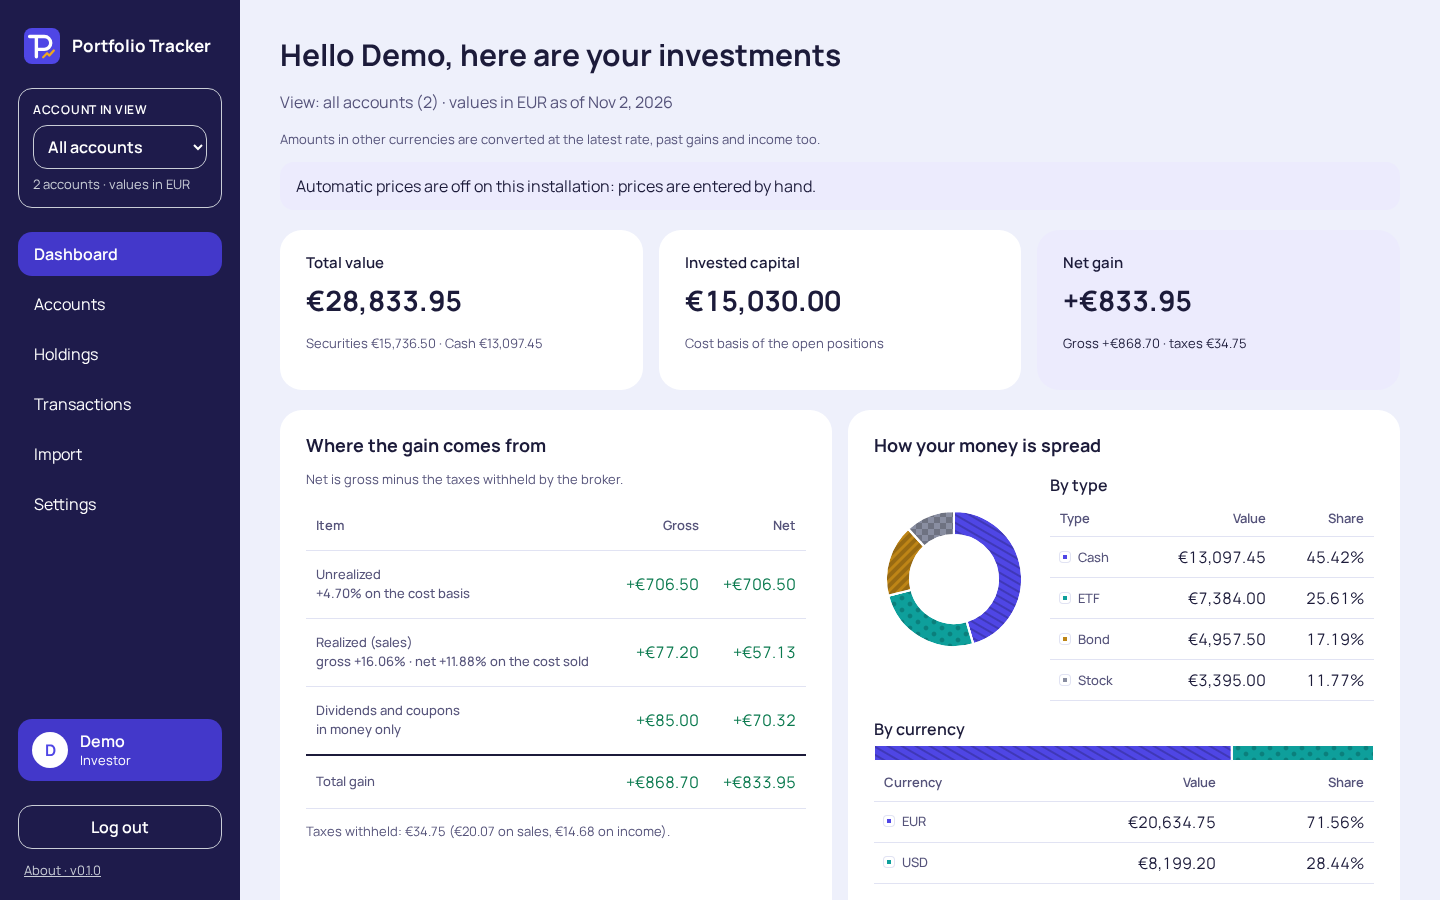
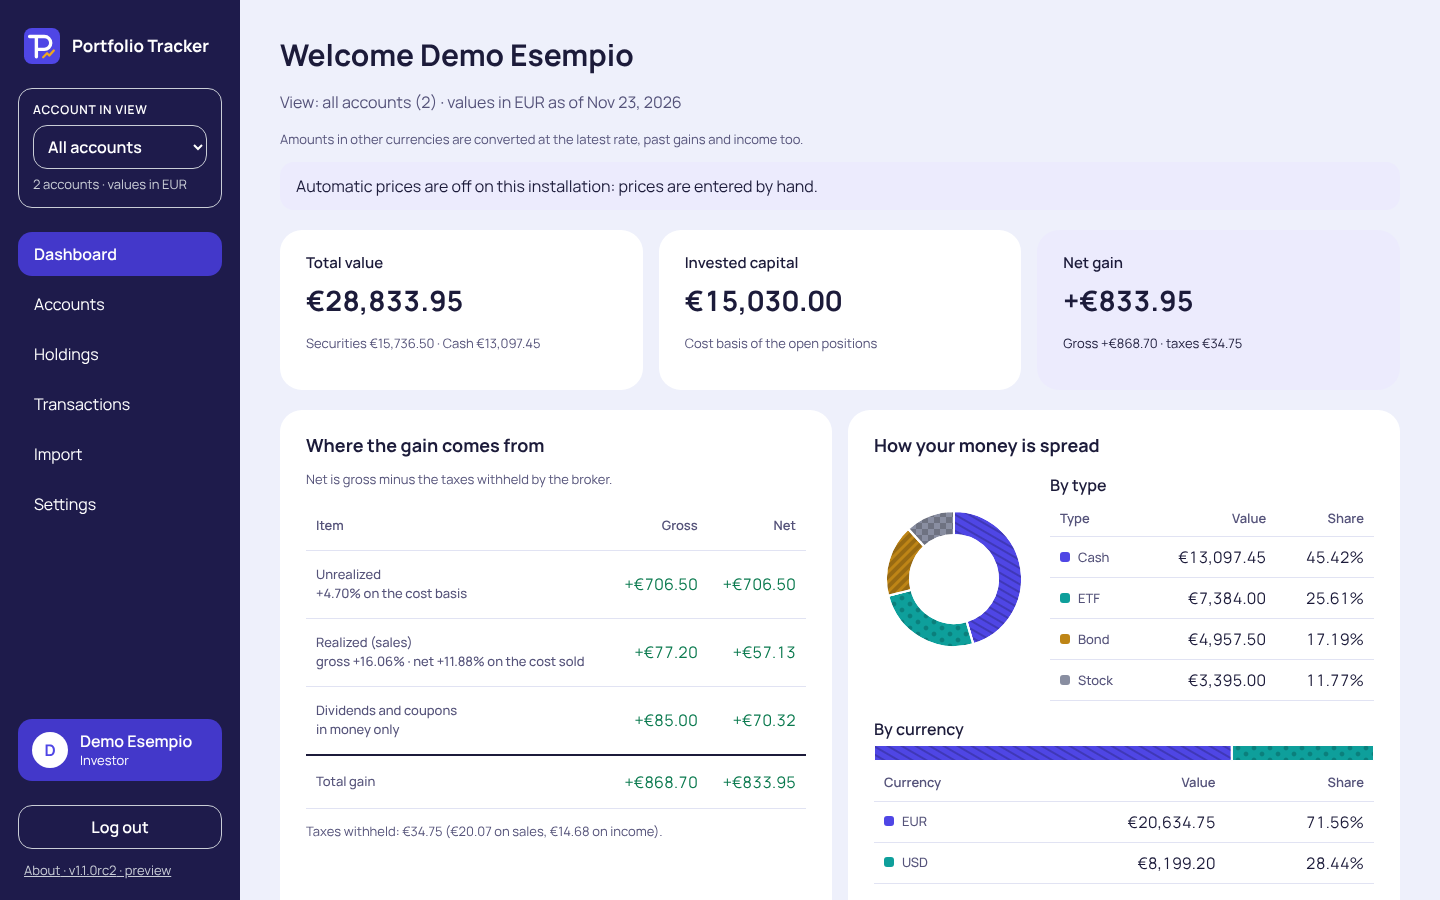
docs: README pictures for 1.1.0, three phone screenshots instead of the import preview
The screenshot script now takes the dashboard and holdings list at 1440x900 and
three phone shots at 390x844 (light dashboard, dark allocation donut, holdings
cards); the import preview picture is removed.

diff --git a/CLAUDE.md b/CLAUDE.md
@@ -67,7 +67,7 @@ One container, one data volume `/data`, env-var configuration, logs to stdout, n
 - Frontend (`cd frontend`): `npm ci` · `npm run dev` (proxies `/api` to :8000) · `npm run lint` · `npm run typecheck` (app and e2e) · `npm test` · `npm run build` (also writes `dist/licenses/THIRD-PARTY.txt` and `frontend.json`, the third-party notices; the server's are written in the image build by `backend/scripts/third_party_notices.py`, D-167) · `npm run budget` (size budget D-138, after the build) · `npm run licenses` (the frontend's licence check; the backend's runs in `.github/workflows/ci.yml`) · end-to-end tests in Chromium: `npx playwright install chromium` once, then `npm run e2e` (builds, then starts its own servers on :8710 empty, :8711 with the development data and :8712 empty with market data on invented fakes (`backend/tests/e2e_market_server.py`), all with `PT_REQUIRE_2FA=off`, and :8715 empty with the 2FA obligation on (`e2e/two-factor.spec.ts`, TOTP helper in `e2e/helpers.ts`), in `frontend/.data-e2e-empty/`, `.data-e2e-seeded/`, `.data-e2e-market/` and `.data-e2e-two-factor/`, deleted at each run) · the walkthrough (D-159): `npm run e2e:walkthrough` (builds, then `e2e/walkthrough.spec.ts` follows the acceptance path, parts A to I, N and O, on a server with the 2FA obligation on (its administrator enrols in part A) that it starts, stops and restarts itself on :8713 in `frontend/.data-e2e-walkthrough/`, deleted at each run; its own config `playwright.walkthrough.config.ts`, its own CI job)
 - Invented development data (`cd backend`): `PT_DATA_DIR=.data-demo uv run python scripts/dev_data.py --development` on a new directory whose name starts with `.data`, given in `PT_DATA_DIR` (refuses anything else, and a directory with a user or an account), then run the app on it with market data off, exactly as the script prints it: `PT_DATA_DIR=.data-demo PT_COOKIE_SECURE=false PT_MARKET_DATA=false PT_REQUIRE_2FA=off uv run python -m portfolio_tracker` (`PT_REQUIRE_2FA=off` because its administrator's password is public and would otherwise have to enrol in 2FA first, D-174; market data is on by default: a run would send the invented ISINs to the providers and overwrite the invented rates; every checkpoint start command includes `PT_MARKET_DATA=false`). Its passwords are public: a `.data*` directory is for development only, never for real data
 - Reference-size data and the 2-second check (`cd backend`, D-154; local only, never in CI, numbers stay out of the repo): `PT_DATA_DIR=.data-ref uv run python scripts/dev_data.py --development --reference` (about 2.5 minutes, about 100 MB; same guards; the instruments, `dev-data` listings and closes are written through the repository layer, no route stores them; start it only with `PT_MARKET_DATA=false`) · `PT_DATA_DIR=.data-ref uv run python scripts/reference_timing.py [--runs N] [--json FILE]` in process, or `--url http://127.0.0.1:PORT` against a running server on this computer
-- README screenshots (`cd frontend`, opt-in, never in CI): `npm run screenshots` (builds, then `scripts/readme-screenshots.mjs` seeds the demo data in `frontend/.data-screenshots/`, starts the app on :8714 with market data off, re-dates the demo's manual prices to yesterday on that copy only, writes `docs/images/dashboard.png`, `holdings.png`, `import-preview.png` at 1440×900 in English, then stops its server and deletes the folder) · review screenshots of the phone and tablet layout (`cd frontend`, opt-in, never in CI, never committed, D-189): `npm run screenshots:review` (builds, seeds `frontend/.data-review/`, serves on :8716, writes 390×844, 820×1180 and 844×390 shots, light Moderno and dark, in Italian, to `frontend/.review-screenshots/`, git-ignored; the screens without a session from fresh invented users, the first run and the forced enrolment on a second empty server on :8718 in `frontend/.data-review-empty/`, deleted at the end; `-- --only=transactions|import|add|rest` takes one part) · phones and tablets (D-189 to D-195): `e2e/phone.spec.ts` (390×844), `e2e/tablet.spec.ts` (820×1180), `e2e/reflow.spec.ts` (every page at 320 px) and the axe walk of `e2e/a11y.spec.ts` at 390 px, in Chromium with `test.use`; one file: `npm run e2e -- e2e/reflow.spec.ts` (never `npx`)
+- README screenshots (`cd frontend`, opt-in, never in CI): `npm run screenshots` (builds, then `scripts/readme-screenshots.mjs` seeds the demo data in `frontend/.data-screenshots/`, starts the app on :8714 with market data off, re-dates the demo's manual prices to yesterday on that copy only, writes `docs/images/dashboard.png` and `holdings.png` at 1440×900 and `phone-dashboard.png`, `phone-dashboard-dark.png` and `phone-holdings.png` at 390×844 (scale 2, touch; the dark one by the browser's dark colour scheme), all in English, then stops its server and deletes the folder) · review screenshots of the phone and tablet layout (`cd frontend`, opt-in, never in CI, never committed, D-189): `npm run screenshots:review` (builds, seeds `frontend/.data-review/`, serves on :8716, writes 390×844, 820×1180 and 844×390 shots, light Moderno and dark, in Italian, to `frontend/.review-screenshots/`, git-ignored; the screens without a session from fresh invented users, the first run and the forced enrolment on a second empty server on :8718 in `frontend/.data-review-empty/`, deleted at the end; `-- --only=transactions|import|add|rest` takes one part) · phones and tablets (D-189 to D-195): `e2e/phone.spec.ts` (390×844), `e2e/tablet.spec.ts` (820×1180), `e2e/reflow.spec.ts` (every page at 320 px) and the axe walk of `e2e/a11y.spec.ts` at 390 px, in Chromium with `test.use`; one file: `npm run e2e -- e2e/reflow.spec.ts` (never `npx`)
 - Opt-in live check of market data on public securities (`cd backend`, only when asked; never in CI, D-151): `PT_LIVE_CHECK=1 PT_DATA_DIR=/tmp/.data-live-check uv run python scripts/live_check.py` (the folder must not exist; deleted at the end unless `--keep`; `--extra ISIN:CURRENCY`, at most 3)
 - Upgrade fixture of a release (`cd backend`, D-168; on the tag's commit, after the release, also after 1.0.0-rc.2; invented data only): `uv run python scripts/make_upgrade_fixture.py --development --version X.Y.Z --work .data-fixture`; the upgrade check through the images (CI's image job; one `upgrade <image>` or `refuse <image>` check per line of `.github/upgrade-from.txt`, D-173; locally only with Docker, a new folder named `pt-upgrade-check…` and a free port): `python3 .github/scripts/upgrade-image-check.py --old-from .github/upgrade-from.txt --new <image> --port N --folder <folder>`
 - Image: `docker build --platform linux/amd64 -t portfolio-tracker:dev .` (a development build: no build date) · run it with the compose file and `image: portfolio-tracker:dev` (the example names the published image, `ghcr.io/horo86/portfolio-tracker`)

diff --git a/docs/development.md b/docs/development.md
@@ -86,7 +86,7 @@ PT_DATA_DIR=.data-ref uv run python scripts/reference_timing.py
 ```
 
 ## README screenshots
-`docs/images/` is made again with one command, never in CI. It needs the backend's environment (`uv sync`) and Playwright's Chromium (as for the end-to-end tests). It builds the frontend, fills a throwaway folder (`frontend/.data-screenshots/`) with the invented demo data, starts the app on it on port 8714 with market data off, enters the demo's manual prices again for yesterday so none shows as not updated, and takes the dashboard, the holdings list and the import preview of the invented sales fixture at 1440×900, in English. Then it stops its server and deletes the folder:
+`docs/images/` is made again with one command, never in CI. It needs the backend's environment (`uv sync`) and Playwright's Chromium (as for the end-to-end tests). It builds the frontend, fills a throwaway folder (`frontend/.data-screenshots/`) with the invented demo data, starts the app on it on port 8714 with market data off, enters the demo's manual prices again for yesterday so none shows as not updated, and takes the dashboard and the holdings list at 1440×900 and three phone shots at 390×844 (device scale 2, touch: the dashboard's cards in light, the allocation donut in dark by the browser's dark colour scheme, the holdings as cards), all in English. Then it stops its server and deletes the folder:
 
 ```bash
 cd frontend

diff --git a/README.md b/README.md
@@ -20,7 +20,13 @@ A self-hosted, open-source investment tracker for private investors. It answers 
 
 ![Holdings list: five invented securities in two accounts with quantity, average cost, last price, value and gross and net gain](docs/images/holdings.png)
 
-![Import preview of an invented Directa file: 8 transactions to import, and a sale whose capital gains tax was linked by date, to tick if right](docs/images/import-preview.png)
+On a phone, light and dark:
+
+<p align="center">
+  <img src="docs/images/phone-dashboard.png" alt="Phone, light theme: the dashboard's total value, invested capital and net gain cards, with the menu bar at the bottom of the screen (invented demo data)" width="260">
+  <img src="docs/images/phone-dashboard-dark.png" alt="Phone, dark theme: the donut chart of how the money is spread and the table of the allocation by type (invented demo data)" width="260">
+  <img src="docs/images/phone-holdings.png" alt="Phone, light theme: the holdings list as cards, with quantity, average cost, last price, value and gross and net gain (invented demo data)" width="260">
+</p>
 
 *The screenshots use invented demo data.*
 
